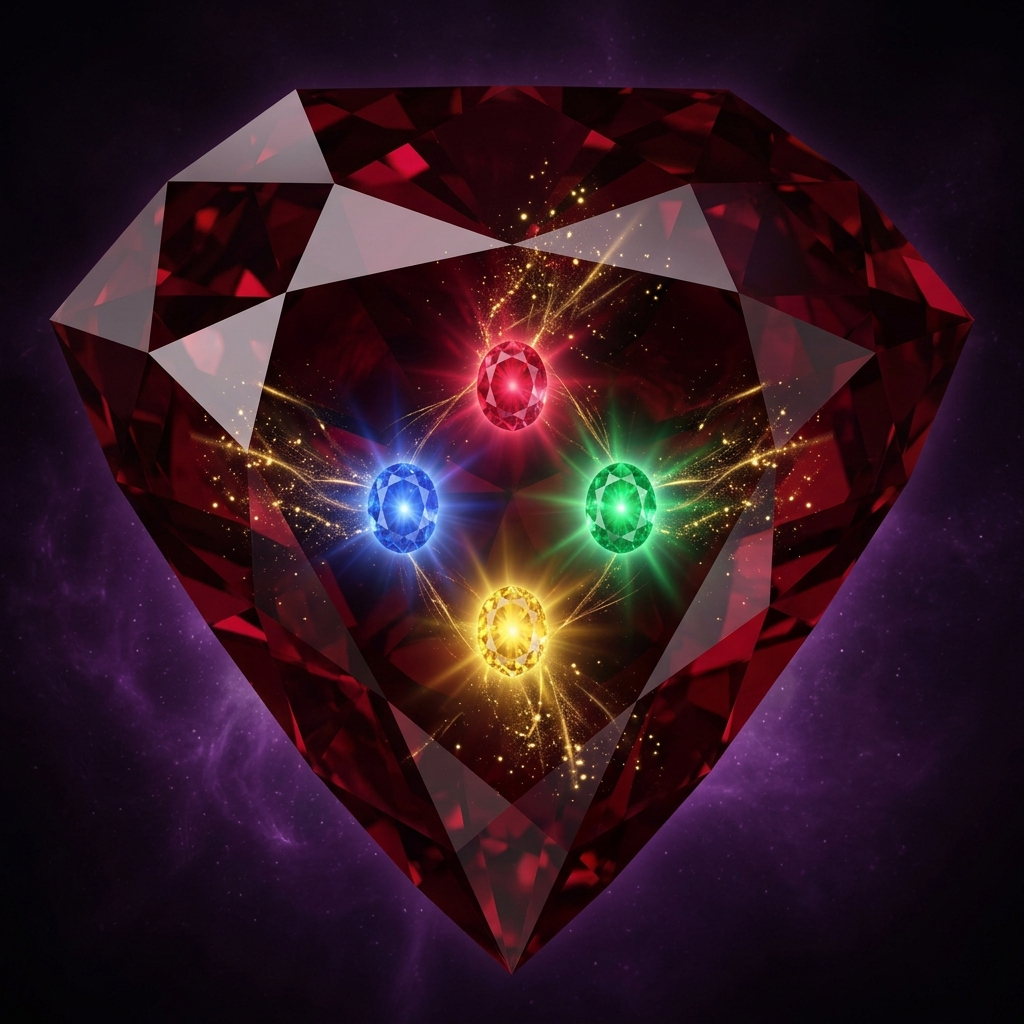
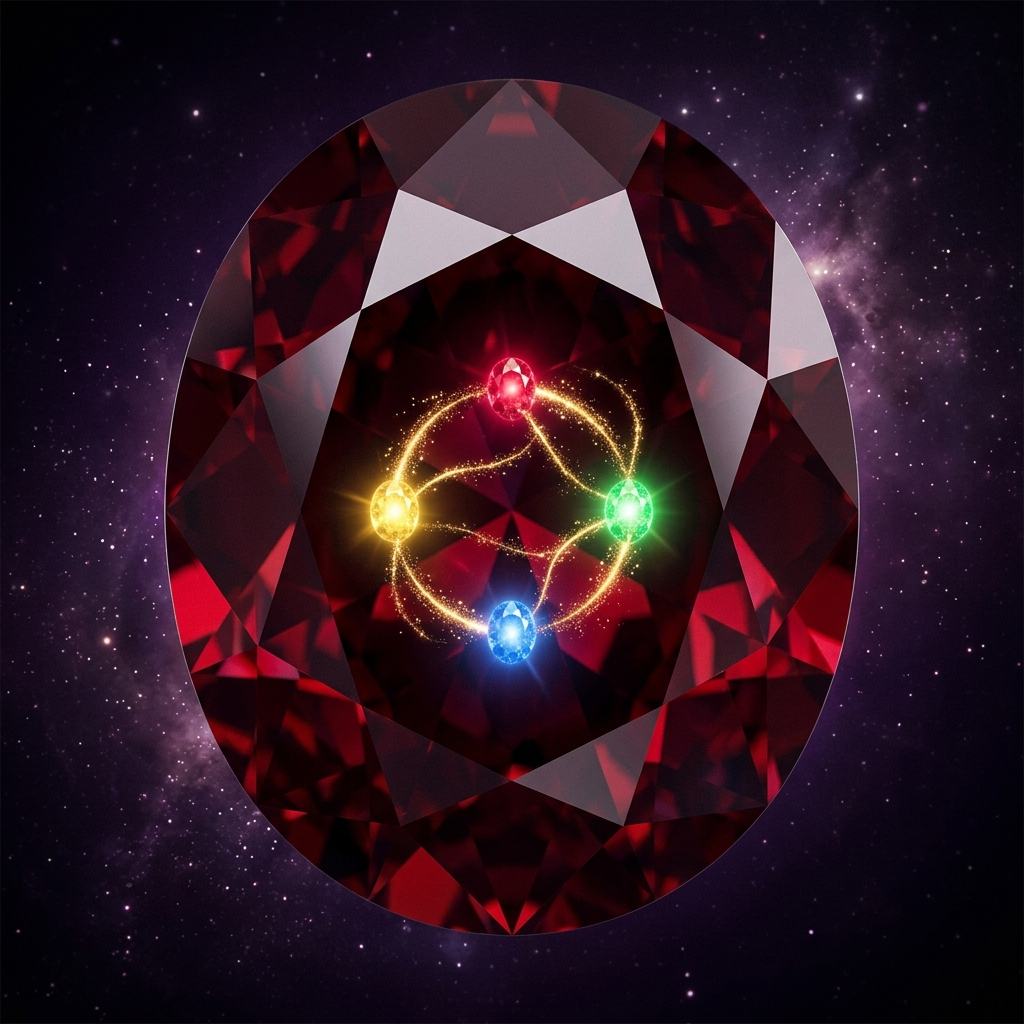
feat: brilliant cut ruby + Ruby Mosaico rare goodie + cache bust 💎♦

diff --git a/lib/models/cauldron_goodies_catalog.dart b/lib/models/cauldron_goodies_catalog.dart
@@ -87,6 +87,13 @@ class CauldronGoodiesCatalog {
       emoji: '🅰',
       rarity: GoodieRarity.rare,
     ),
+    CauldronGoodie(
+      id: 'ruby_mosaic',
+      assetPath: 'assets/goodies/ruby_mosaic.png',
+      displayName: 'Ruby Mosaico',
+      emoji: '♦',
+      rarity: GoodieRarity.rare,
+    ),
   ];
 
   // ─── LEGENDARY (weight 1) ───
